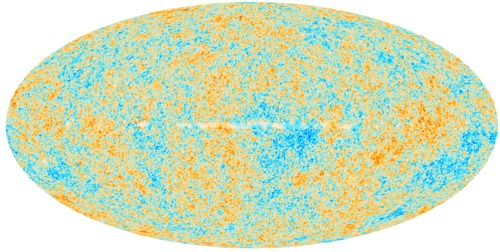
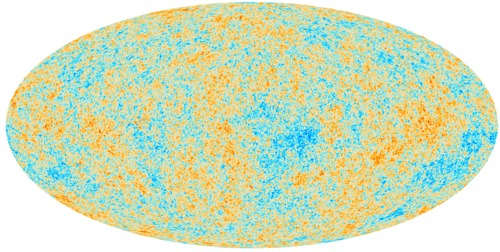
Updated map with inpainted version

diff --git a/content/Planck-CMB-map-at-high-resolution.md b/content/Planck-CMB-map-at-high-resolution.md
@@ -6,11 +6,11 @@ slug: Planck-CMB-map-at-high-resolution
 
 Prompted by a colleague, I created a high-resolution version of the Cosmic Microwave Background map in MollWeide projection released by the Planck collaboration, available on the [Planck Data Release Website](http://irsa.ipac.caltech.edu/data/Planck/release_1/all-sky-maps/previews/COM_CompMap_CMB-smica_2048_R1.20/index.html) in FITS format.
 
-The grayed out pixels in the galactic plane represents the fraction of the sky that is not possible to reconstruct due to bright galactic sources.
-
 The map is a PNG at a resolution of 17469x8796 pixels, which is suitable for printing at 300dpi up to 60x40 inch, or 150x100 cm, file size is about 150MB.
 
 *Update*: now with Planck color scale
+
+*Update*: previous version had grayed out pixels in the galactic plane represents the fraction of the sky that is not possible to reconstruct due to bright galactic sources. The last version uses inpainting to create a constrained CMB realization with the same statistics as the observed CMB to fill the unobserved pixels, more details in the [Planck Explanatory Supplement](http://www.sciops.esa.int/wikiSI/planckpla/index.php?title=CMB_and_astrophysical_component_maps&instance=Planck_Public_PLA). 
 
 * [High Resolution image on FigShare](http://dx.doi.org/10.6084/m9.figshare.795296)
 
